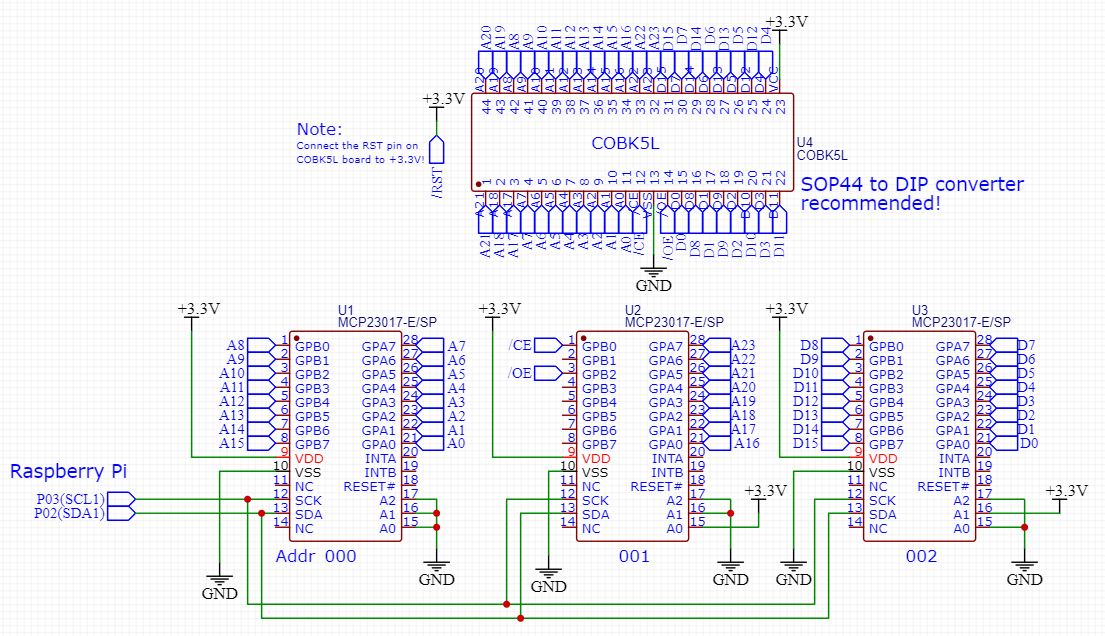
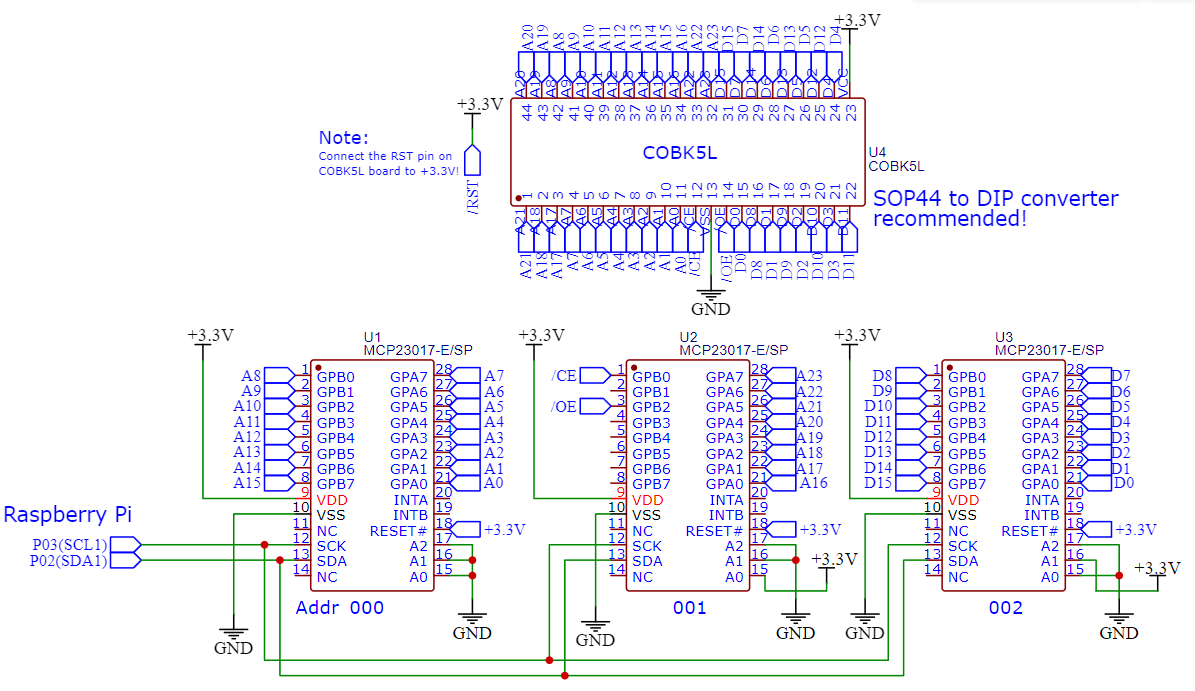
Added new romdumper, tie reset pins to +3.3v on MCP23017s

Changed region(s): [[0.0, 0.0, 0.9846, 0.9858], [0.5231, 0.2091, 0.6154, 0.239]]

diff --git a/arduino-rp2040-romdumper/romdumper.py b/arduino-rp2040-romdumper/romdumper.py
@@ -1,0 +1,68 @@
+from datetime import datetime
+import serial
+import time
+import sys
+
+# Reference: https://github.com/Promolife/sup_console_programmator/
+
+COM_PORT = "COM16"
+
+print("================")
+print("K5L flash dumper")
+print("================")
+
+ser = serial.Serial(port=COM_PORT, baudrate=115200, bytesize=8, parity='N', stopbits=1, timeout=0.5)
+
+addrStart = 0x000000
+addrEnd = 0x800000
+totalSize = addrEnd - addrStart
+progress = 0x0000
+
+print("Address is by 16-bit data.")
+print("Example: Addr for 8-bit data is 0x70000")
+print("         Addr for 16-bit data is 0x38000")
+print("================")
+print("Start address: ", hex(addrStart))
+print("End address: ", hex(addrEnd))
+assert (addrEnd > addrStart) , "Start addr should not be bigger than or equal end addr!" 
+print("Size dumped: ", hex(addrEnd-addrStart))
+print("================")
+
+addrStartBytes = bytes.fromhex(str.format('{:06X}', addrStart))
+addrEndBytes = bytes.fromhex(str.format('{:06X}', addrEnd))
+
+dumpCmd = b'#RDR' + addrEndBytes + addrStartBytes + b'$'
+
+fileName = "romdump_" + datetime.now().strftime("%d%m%Y_%H%M%S") + ".bin"
+f = open(fileName,"wb")
+f.seek(0)
+
+print("Dump in progress...")
+
+ser.write(dumpCmd)
+
+startTime = datetime.now()
+
+while(totalSize >= 0x200):
+    buffer = ser.read(0x400)
+    f.write(buffer)
+    totalSize -= 0x200
+    progress += 0x200
+    if((progress % 0x8000) == 0):
+        print("64kbytes read and dumped, progress: ", progress * 2)
+
+if(totalSize > 0):
+    buffer = ser.read(totalSize * 2)
+    f.write(buffer)
+
+f.close()
+
+stopTime = datetime.now()
+
+print("================")
+print("Dump successful!")
+print("================")
+print("File written: ", fileName)
+print("Start time: ", startTime)
+print("Stop time: ", stopTime)
+print("time taken: ", stopTime - startTime)

diff --git a/arduino-rp2040-romdumper/README.md b/arduino-rp2040-romdumper/README.md
@@ -1,0 +1,38 @@
+## Raspberry Pico ROM dumper for K5L2731CAM breakout boards on Famiclone handhelds (Sup 400-in-1)
+
+This is a prototype of the ROM dumper using 2 I/O expanders (MCP23017) and a Raspberry Pico. Since it is using Arduino instead of Python, the dumping is significantly faster (about 35 mins on a 16Mbytes dump). 
+
+### Notes:
+* Tie the reset pins on the MCP23017 to +3.3V to prevent non-detection and glitching!
+* Add pull-ups 4.7K resistors on the I2C lines if you notice data corruption when doing the dump!
+
+![romdump_schematic](romdump_schematic.png)
+
+The SOP44 to DIP converter:
+
+![converter](romdump_converter.png)
+
+### Attention: 
+* If you cannot fit the extracted breakout board, try slowly filing the four corners and retry fitting.
+
+### Instructions
+* Build the romdumper with the SOP44 to DIP converter as seen in the schematic.
+* Compile and upload the provided Arduino sketch to the Raspberry Pico.
+* Run the Python script. You can adjust the address range (addrStart and addrEnd).
+
+
+### Result of fully dumped binary at 16Mbytes:
+```
+================
+Dump successful!
+================
+File written:  romdump_10042024_201812.bin
+Start time:  2024-04-10 20:18:12.549339
+Stop time:  2024-04-10 20:53:58.564962
+time taken:  0:35:46.015623
+```
+
+The dumped binaries can be run in EmuVT 1.36.
+
+### Reference 
+* https://github.com/Promolife/sup_console_programmator/

diff --git a/README.md b/README.md
@@ -9,7 +9,7 @@ This works by connecting all the address lines, data lines and control lines to 
 ![schematic](schematic.png)
 
 Usage:
-1. Use the "romdumper" as provided in the folder. Assemble the dumper according to the schematic in that folder and run the Python app in the Raspberry Pi.
+1. Use the "romdumper" or "arduino-rp2040-romdumper" as provided in the folder. Assemble the dumper according to the schematic in that folder and run the Python app.
 2. Using a hex editor such as HxD, extract out the 0x60000-0x80000 and put these into the another new binary file.
 3. Connect the Teensy 4.1 to the handheld PCB with a 1.27mm pitch ribbon cable and some IDC connectors. The other end of the ribbon cable (not shown here) is connected to the female IDC connector (more than 22 pins). The white cable that is soldered to the Reset button on the PCB is the RST at the schematic. Here is an picture to explain how it is connected:
 ![teensy41_to_handheld](teensy41_to_handheld.png)
@@ -27,3 +27,4 @@ Usage:
 ## References:
 * Flash emulator is loosely based on [this code](https://github.com/gfoot/picoprom/tree/main).
 * Ymodem from [Loboris' github](https://github.com/loboris/ESP32_ymodem_example).
+* ROM dumping methods are loosely based on Aleksandr Serdyukov's [SUP Console flash programmator](https://github.com/Promolife/sup_console_programmator).

diff --git a/romdumper/README.md b/romdumper/README.md
@@ -1,6 +1,9 @@
-## ROM dumper for K5L2731CAM breakout boards on Famiclone handhelds
+## Raspberry Pi ROM dumper for K5L2731CAM breakout boards on Famiclone handhelds (Sup 400-in-1)
 
 This is a prototype of the ROM dumper using 3 I/O expanders (MCP23017) and a Raspberry Pi (any models will do). The dumping process will take about a day or so due to the longer delay times in the Python libraries:
+
+### Note:
+* Tie the reset pins on the MCP23017 to +3.3V to prevent non-detection and glitching!
 
 ![romdump_schematic](romdump_schematic.png)
 
@@ -8,6 +11,7 @@ The SOP44 to DIP converter:
 
 ![converter](romdump_converter.png)
 
-Note: If you cannot fit the extracted breakout board, try slowly filing the four corners and retry fitting.
+### Attention:
+* If you cannot fit the extracted breakout board, try slowly filing the four corners and retry fitting.
 
 As a default, it is saved as "romdump.hex". The dumped binaries can be run in EmuVT 1.36.
